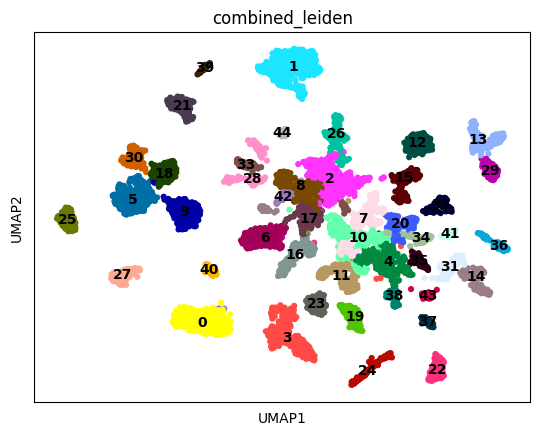
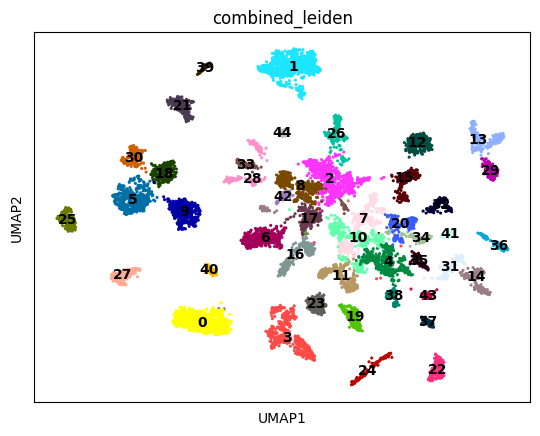
Update dot size - remove sample name from plot

diff --git a/plotAC.py b/plotAC.py
@@ -40,7 +40,7 @@ def main():
     sc.pl.umap(adata, color='renamed_samples', size=80, save=f'{base}_colored_by_sample.png', show=False)
 
     # 2. UMAP colored by combined_leiden
-    sc.pl.umap(adata, color='combined_leiden', size=80, legend_loc='on data', save=f'{base}_combined_leiden.png', show=False)
+    sc.pl.umap(adata, color='combined_leiden', size=20, legend_loc='on data', save=f'{base}_combined_leiden.png', show=False)
 
     # 3. Separate UMAP for each sample with combined_leiden
     for sample in adata.obs['renamed_samples'].unique():
@@ -50,7 +50,7 @@ def main():
             adata_sample,
             color='combined_leiden',
             title=f'Sample: {sample}',
-            size=60,legend_loc='on data',
+            size=80, legend_loc='on data',
             save=f'{base}_{sample}.png',
             show=False
         )
@@ -70,7 +70,7 @@ def main():
             sample_adata,
             color='renamed_samples',
             title=f'Sample: {sample}',
-            size=80,legend_loc='on data',
+            size=80,
             show=False,
             return_fig=True
         )

diff --git a/README.md b/README.md
@@ -279,7 +279,7 @@ The following UMAP plots illustrate the clustering of subtypes within each major
 ### Recombining subclusters 1 and 45 in AC
 
 <img src="figures/umapAC_colored_by_sample.png?v=5" width="70%">
-<img src="figures/umapAC_combined_leiden.png?v=7" width="70%">
+<img src="figures/umapAC_combined_leiden.png?v=8" width="70%">
 
 <div style="display: flex; gap: 10px;">
   <img src="figures/AC_Control_no_leiden.png?v=7" width="30%">
